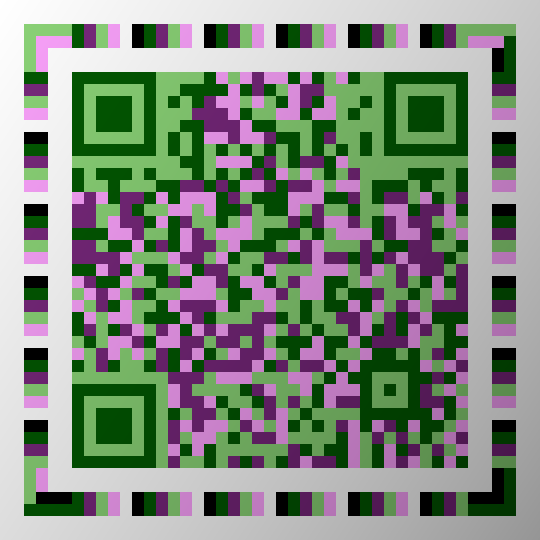
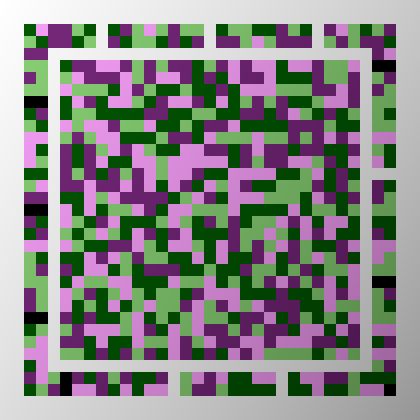
explainer.html updates

diff --git a/crates/lc-decode/tests/ring_diag.rs b/crates/lc-decode/tests/ring_diag.rs
@@ -530,3 +530,166 @@ fn inner_layer_as_payload() {
     let r = noise(&r, 0.03, 0xBEEF);
     report("inner-as-payload realistic", &r, None, v);
 }
+
+/// What deferring binarisation behind the ring path actually saves per frame.
+///
+/// The ring detector reads greyscale; only the finder fallback needs the binary. This times
+/// a full decode of a ringed symbol (ring path, no binarisation) against the binarise-and-
+/// denoise pass it used to pay for regardless.
+#[test]
+#[ignore]
+fn decode_cost_by_path() {
+    use lc_decode::image::binarize;
+    use std::time::Instant;
+
+    let sym = symbol();
+    let r = render_at(&sym, 12);
+    let view = ImageView::new(&r.data, r.width, r.height, r.width * 3, PixelFormat::Rgb8).unwrap();
+    let gray = view.gray_buffer();
+
+    const N: u32 = 20;
+    let t0 = Instant::now();
+    for _ in 0..N {
+        let _ = binarize(&gray, r.width, r.height).denoised();
+    }
+    let binarise = t0.elapsed() / N;
+
+    let t0 = Instant::now();
+    for _ in 0..N {
+        Decoder::new()
+            .decode_rgb(&r.data, r.width, r.height, r.width * 3)
+            .expect("decodes");
+    }
+    let decode = t0.elapsed() / N;
+
+    println!(
+        "{}x{}: decode {decode:?}, binarise+denoise {binarise:?} ({:.1}% of a decode, now skipped on the ring path)",
+        r.width,
+        r.height,
+        100.0 * binarise.as_secs_f64() / decode.as_secs_f64()
+    );
+}
+
+/// Numbers the README and the explainer quote, recomputed.
+///
+/// Both documents predate D17–D19 and quote the classic layout's capacity, which is now
+/// only what a print or border-less symbol carries. This prints the ringed figures beside
+/// them, and the QR side measured with `qrcodegen` rather than transcribed.
+#[test]
+#[ignore]
+fn doc_numbers() {
+    use lc_core::capacity::{capacity_for_symbol, smallest_version_for_symbol};
+    use lc_core::{EccLevel, Version};
+    use lc_render::qr::{QrEcc, qr_encode_bytes};
+
+    let ecc = EccLevel::DEFAULT;
+    let profiles = [Profile::M, Profile::C1, Profile::C2, Profile::C3];
+
+    println!("\n== capacity at a fixed grid, ECC default (ring / classic) ==");
+    for v in [1u8, 2, 3, 4] {
+        let version = Version::new(v).unwrap();
+        print!("  v{v} {:>2}x{:<2} ", version.side(), version.side());
+        for p in profiles {
+            let ring = capacity_for_symbol(version, p, ecc, true).body_bytes;
+            let classic = capacity_for_symbol(version, p, ecc, false).body_bytes;
+            print!("| {p:?} {ring:>4} / {classic:<4} ");
+        }
+        println!();
+    }
+
+    println!("\n== QR byte capacity at the same grids ==");
+    for (label, ecl) in [
+        ("L", QrEcc::Low),
+        ("M", QrEcc::Medium),
+        ("Q", QrEcc::Quartile),
+        ("H", QrEcc::High),
+    ] {
+        print!("  QR-{label} ");
+        for maxv in [1u8, 2, 3, 4] {
+            let mut best = 0;
+            for n in 1..500usize {
+                match qr_encode_bytes(&vec![0x41u8; n], ecl) {
+                    Ok(q) if q.version <= maxv => best = n,
+                    _ => break,
+                }
+            }
+            let side = 17 + 4 * maxv as u32;
+            print!("| v{maxv} {side}x{side} {best:>4} B ");
+        }
+        println!();
+    }
+
+    println!("\n== v4 33x33, ring on, by ECC level (parity share of each layer) ==");
+    let rates = lc_core::ecc::ldpc::RATES;
+    let (li, ci) = (
+        lc_core::ecc::ldpc::LUMA_RATE_INDEX,
+        lc_core::ecc::ldpc::CHROMA_RATE_INDEX,
+    );
+    let v4 = Version::new(4).unwrap();
+    for level in 0..4u8 {
+        let e = EccLevel {
+            luma: level,
+            chroma: level,
+        };
+        print!(
+            "  level {level}: luma rate {:.2} ({:.0}% parity), chroma rate {:.2} ({:.0}% parity) ",
+            rates[li[level as usize]],
+            100.0 * (1.0 - rates[li[level as usize]]),
+            rates[ci[level as usize]],
+            100.0 * (1.0 - rates[ci[level as usize]])
+        );
+        for p in profiles {
+            print!(
+                "| {p:?} {:>4} B ",
+                capacity_for_symbol(v4, p, e, true).body_bytes
+            );
+        }
+        println!();
+    }
+
+    println!("\n== same payload: who needs what (LC ring on) ==");
+    for n in [34usize, 50, 96, 144] {
+        let data = vec![0x41u8; n];
+        let lc = |p| {
+            smallest_version_for_symbol(n, p, ecc, true)
+                .map(|v| format!("v{} {}x{}", v.get(), v.side(), v.side()))
+                .unwrap_or_else(|_| "—".into())
+        };
+        let qr = |e| {
+            qr_encode_bytes(&data, e)
+                .map(|q| format!("v{} {}x{}", q.version, q.size, q.size))
+                .unwrap_or_else(|_| "—".into())
+        };
+        println!(
+            "  {n:>3} B: C1 {:<12} C3 {:<12} | QR-L {:<12} QR-M {:<12} QR-Q {:<12} QR-H {}",
+            lc(Profile::C1),
+            lc(Profile::C3),
+            qr(QrEcc::Low),
+            qr(QrEcc::Medium),
+            qr(QrEcc::Quartile),
+            qr(QrEcc::High)
+        );
+    }
+}
+
+/// Does tilt tolerance still depend on which way you lean the symbol?
+///
+/// The explainer's §05 blamed an asymmetric layout: bullseyes at three corners and a small
+/// alignment marker at the fourth, so leaning on the weak corner gave the decoder less to
+/// work with. A finder-less symbol (D17) has four identical ring corners, so that argument
+/// no longer applies — this measures whether the effect survived it.
+#[test]
+#[ignore]
+fn tilt_by_azimuth() {
+    let base = render_at(&symbol(), 12);
+    for tilt in [0.15f32, 0.25, 0.35, 0.45, 0.55, 0.65, 0.75, 0.85] {
+        let row: Vec<String> = (0..8)
+            .map(|k| {
+                let az = k as f32 * 45.0;
+                let ok = decodes(&perspective(&base, tilt, az));
+                format!("{az:>3.0}\u{b0} {}", if ok { "ok" } else { "--" })
+            })
+            .collect();
+        println!("tilt {tilt:.2}: {}", row.join(" | "));
+    }
+}

diff --git a/crates/lc-decode/src/lib.rs b/crates/lc-decode/src/lib.rs
@@ -284,7 +284,11 @@ impl<V: PacketVerifier> Decoder<V> {
     /// right place to spend it, since §6.2 shares QR's finder by design and a §17.2
     /// dual-render, or simply two symbols on one poster, is otherwise undecodable.
     pub fn decode(&self, img: &ImageView) -> Result<DecodeOutput, DecodeError> {
-        let (gray, binary) = binarise(img);
+        // Greyscale only, for now: the ring path (D17) reads luma and never touches the
+        // binary, so a screen symbol — which is what a finder-less symbol is — should not
+        // pay for binarisation and denoising at all. That cost moves below, behind the
+        // finder fallback that actually needs it.
+        let gray = img.gray_buffer();
         let mut first_err = None;
 
         // Finder-less first (D17): it is what a screen symbol now is, and a frame with no
@@ -305,6 +309,7 @@ impl<V: PacketVerifier> Decoder<V> {
             Err(e) => first_err = Some(e),
         }
 
+        let binary = binarise(&gray, img);
         let candidates = match scan(img, gray, &binary) {
             Ok(c) => c,
             Err(e) => return Err(first_err.unwrap_or(e)),
@@ -593,7 +598,7 @@ fn scan(
 /// reset. Single-frame [`Decoder::decode`] handles that case; multi-frame accumulation
 /// does not yet.
 fn prepare(img: &ImageView) -> Result<Prepared, DecodeError> {
-    let (gray, binary) = binarise(img);
+    let gray = img.gray_buffer();
     // Safe to try before the finder path even here, where there is no CRC: a ring is only
     // accepted after the sequence correlates *and* a BCH-protected format decodes to the
     // version the correlation named. Noise does not clear both.
@@ -601,6 +606,7 @@ fn prepare(img: &ImageView) -> Result<Prepared, DecodeError> {
         Ok(p) => return Ok(p),
         Err(e) => e,
     };
+    let binary = binarise(&gray, img);
     match scan(img, gray, &binary) {
         Ok(candidates) => prepare_from(img, &binary, &candidates[0]),
         Err(e) => Err(if matches!(ring_err, LcError::NotFound) {
@@ -611,12 +617,14 @@ fn prepare(img: &ImageView) -> Result<Prepared, DecodeError> {
     }
 }
 
-/// §12.1: greyscale and binarise once, for both detection paths.
-fn binarise(img: &ImageView) -> (Vec<u8>, image::Binary) {
-    // Do all of this before touching colour.
-    let gray = img.gray_buffer();
-    let binary = image::binarize(&gray, img.width, img.height).denoised();
-    (gray, binary)
+/// §12.1's binarisation, for the finder path only.
+///
+/// Deliberately *not* done alongside the greyscale conversion. The ring detector reads
+/// greyscale directly, so on the common path — a screen symbol, found by its ring — this
+/// never runs, and a live preview stops paying for a full-frame binarise and denoise per
+/// frame that nothing reads.
+fn binarise(gray: &[u8], img: &ImageView) -> image::Binary {
+    image::binarize(gray, img.width, img.height).denoised()
 }
 
 /// §12.1–§12.3 for a finder-less symbol, located and described entirely by its ring (D17).

diff --git a/crates/lc-decode/examples/explain.rs b/crates/lc-decode/examples/explain.rs
@@ -11,6 +11,7 @@ use lc_core::color::{self, Lab};
 use lc_core::{Compression, Profile};
 use lc_decode::Decoder;
 use lc_encode::EncodeOptions;
+use lc_render::qr::{QrEcc, QrSymbol, qr_encode_bytes};
 use lc_render::{Raster, RenderOptions, png_encode, render_rgb};
 
 include!("../tests/support/ops.rs");
@@ -30,6 +31,39 @@ fn save(name: &str, r: &Raster) {
         "  {name:<22} {}x{}  {bytes:>6} B  decodes={ok}",
         r.width, r.height
     );
+}
+
+/// Write a figure that is not an LC Code, so the decode check does not apply.
+fn save_plain(name: &str, r: &Raster) {
+    std::fs::write(format!("{DIR}/{name}.png"), png_encode(r)).unwrap();
+    println!("  {name:<22} {}x{}", r.width, r.height);
+}
+
+/// A QR symbol as a raster, at the same module pitch as the LC figures, with its
+/// mandatory 4-module quiet zone.
+fn qr_raster(qr: &QrSymbol, px: u32) -> Raster {
+    let side = qr.outer() * px;
+    let mut data = vec![255u8; (side * side * 3) as usize];
+    let quiet = (qr.outer() - qr.size) / 2;
+    for y in 0..qr.size {
+        for x in 0..qr.size {
+            if !qr.get(x, y) {
+                continue;
+            }
+            for dy in 0..px {
+                for dx in 0..px {
+                    let (px_x, px_y) = ((x + quiet) * px + dx, (y + quiet) * px + dy);
+                    let i = ((px_y * side + px_x) * 3) as usize;
+                    data[i..i + 3].copy_from_slice(&[0, 0, 0]);
+                }
+            }
+        }
+    }
+    Raster {
+        width: side,
+        height: side,
+        data,
+    }
 }
 
 /// Rec.709 luma, as a grey image — literally what a monochrome sensor records.
@@ -138,6 +172,16 @@ fn main() {
     let c3r = render_rgb(&c3, &ropts);
     save("symbol-c3", &c3r);
     save("layer-chroma-c3", &chroma_only(&c3r, 62.0));
+
+    // QR carrying the *same* payload at the *same* module pitch, for the density
+    // comparison on the page. Generated, not transcribed — `qrcodegen` encodes it and the
+    // test suite reads it back with an independent decoder (`rqrr`).
+    let qr = qr_encode_bytes(payload, QrEcc::Medium).expect("96 bytes fits a QR");
+    println!(
+        "  qr-medium              QR v{} {}x{} modules",
+        qr.version, qr.size, qr.size
+    );
+    save_plain("qr-medium", &qr_raster(&qr, PX));
 
     // Palette.
     save("palette-c4", &swatches(&lc_core::palette::C4_COLORS, 64));

diff --git a/xtask/src/main.rs b/xtask/src/main.rs
@@ -72,15 +72,32 @@ fn main() {
 
 /// Recompute the §6.1 capacity table from the real layout and codes (open decision #8).
 fn capacity_table() -> String {
-    use lc_core::capacity::capacity;
+    use lc_core::capacity::capacity_for_symbol;
     use lc_core::version::{EccLevel, Profile, Version};
 
-    let mut s =
-        String::from("| Version | Side | M | C1 | C2 | C3 |\n|---:|---:|---:|---:|---:|---:|\n");
-    for v in Version::all() {
-        let _ = write!(s, "| {} | {} |", v.get(), v.side());
-        for p in [Profile::M, Profile::C1, Profile::C2, Profile::C3] {
-            let _ = write!(s, " {} |", capacity(v, p, EccLevel::DEFAULT).body_bytes);
+    // Two tables, because since D17 there are two layouts and they differ by up to 3.6x.
+    // A single table reporting the classic one is how both README.md and the explainer came
+    // to quote pre-D17 capacities as if they were current.
+    let mut s = String::new();
+    for (title, border) in [
+        (
+            "With the §6.4 ring — the screen default: finder-less (D17), ring payload (D19)",
+            true,
+        ),
+        (
+            "Without the ring — print, and anything that may be read in greyscale (classic)",
+            false,
+        ),
+    ] {
+        let _ = writeln!(s, "### {title}\n");
+        s.push_str("| Version | Side | M | C1 | C2 | C3 |\n|---:|---:|---:|---:|---:|---:|\n");
+        for v in Version::all() {
+            let _ = write!(s, "| {} | {} |", v.get(), v.side());
+            for p in [Profile::M, Profile::C1, Profile::C2, Profile::C3] {
+                let cap = capacity_for_symbol(v, p, EccLevel::DEFAULT, border);
+                let _ = write!(s, " {} |", cap.body_bytes);
+            }
+            s.push('\n');
         }
         s.push('\n');
     }

diff --git a/crates/lc-decode/examples/profiles.rs b/crates/lc-decode/examples/profiles.rs
@@ -20,7 +20,7 @@
 
 #![allow(dead_code)]
 
-use lc_core::capacity::capacity;
+use lc_core::capacity::capacity_for_symbol;
 use lc_core::version::{EccLevel, Profile, Version};
 use lc_core::{Compression, Packet};
 use lc_decode::Decoder;
@@ -52,7 +52,12 @@ type TrialSet = Vec<(Vec<u8>, Raster)>;
 
 fn bases(profile: Profile, trials: usize) -> (usize, TrialSet) {
     let v = Version::new(VERSION).unwrap();
-    let bytes = capacity(v, profile, EccLevel::DEFAULT).body_bytes;
+    // `capacity_for_symbol`, not `capacity`: these symbols are rendered with the ring on,
+    // and since D17/D19 that is a different layout with materially more capacity. Sizing
+    // with the classic figure under-filled every symbol here, handing the denser profiles
+    // LDPC shortening margin they would not have in use — exactly what this example's own
+    // header says it must not do.
+    let bytes = capacity_for_symbol(v, profile, EccLevel::DEFAULT, true).body_bytes;
     let opts = EncodeOptions {
         profile,
         version: Some(v),

diff --git a/crates/lc-render/src/qr.rs b/crates/lc-render/src/qr.rs
@@ -318,7 +318,7 @@ mod tests {
                 let p = raster.pixel(x as u32, y as u32);
                 // Rec.709 luma, so the LC half's colours reduce sensibly rather than
                 // thresholding into noise that the detector might latch onto.
-                ((0.2126 * p.r as f32 + 0.7152 * p.g as f32 + 0.0722 * p.b as f32) as u8).min(255)
+                (0.2126 * p.r as f32 + 0.7152 * p.g as f32 + 0.0722 * p.b as f32) as u8
             },
         );
         let grids = prepared.detect_grids();
